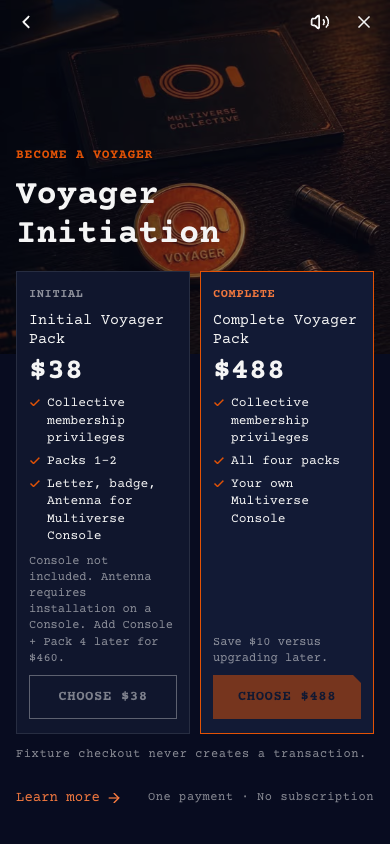
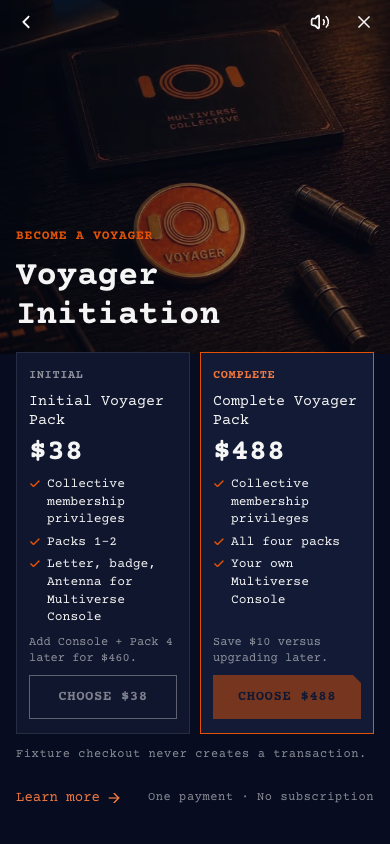
Shorten Pack 2 copy and briefing offer notes

Changed region(s): [[0.0308, 0.2156, 0.9846, 0.8009], [0.2462, 0.154, 0.4, 0.1848], [0.0308, 0.154, 0.1538, 0.1848]]

diff --git a/src/app/voyager-initiation/briefing/briefing-pages.tsx b/src/app/voyager-initiation/briefing/briefing-pages.tsx
@@ -483,7 +483,7 @@ export function FrontLinePage({ state, regions }: { state: PageState; regions: B
 /* 8 · Packs: the Console leads; tap any month to see that pack. */
 const PACKS = [
   { month: 'OCT', meta: 'PACK 1 · OCT 2026', title: 'Initial Voyager Pack', short: 'Initial Pack', image: `${MEDIA}/pack-1.jpg`, focus: '50% 75%', alt: 'A welcome letter and Voyager badge on a desk', description: 'Welcome letter and exclusive member badge. A physical invitation into the Collective.' },
-  { month: 'NOV', meta: 'PACK 2 · NOV 2026', title: ANTENNA.firstMention, short: ANTENNA.name, image: ANTENNA.image, alt: ANTENNA.imageAlt, description: ANTENNA.briefingDescription },
+  { month: 'NOV', meta: 'PACK 2 · NOV 2026', title: ANTENNA.firstMention, short: ANTENNA.name, image: ANTENNA.image, alt: ANTENNA.imageAlt, description: ANTENNA.packDescription },
   { month: 'DEC', meta: 'PACK 3 · DEC 2026', title: 'Multiverse Console', short: 'Console', image: `${MEDIA}/console-workshop.jpg`, alt: 'A Multiverse Console on a workshop bench, its screen showing a parallel world', description: 'Your own device for exploring and interacting with parallel worlds.' },
   { month: 'JAN', meta: 'PACK 4 · JAN 2027', title: 'A Fourth Delivery', short: 'Fourth delivery', image: `${MEDIA}/pack-4.jpg`, alt: 'A sealed envelope awaiting its reveal', description: 'A future shipment for this cohort. Contents to be announced.' },
 ]
@@ -501,7 +501,7 @@ export function PacksPage({ state, onPack }: { state: PageState; onPack: (index:
         <div className={`${s.packHero} ${selected === 1 ? s.antennaHero : ''}`}>
           <span key={pack.image} className={s.packImage}><SmartImage src={pack.image} alt={pack.alt} sizes="(min-width: 460px) 430px, 92vw" preload style={pack.focus ? { objectPosition: pack.focus } : undefined} /></span>
         </div>
-        <div className={s.packCaption} aria-live="polite"><span>{pack.meta}</span><b>{pack.title}</b><p>{pack.description}</p>{selected === 1 && <><p>{ANTENNA.requirement} {ANTENNA.initialExclusion}</p><p>{ANTENNA.imageCaption}</p></>}</div>
+        <div className={s.packCaption} aria-live="polite"><span>{pack.meta}</span><b>{pack.title}</b>{selected === 1 && <p><strong>{ANTENNA.packTagline}</strong></p>}<p>{pack.description}</p></div>
       </div>
       <div className={s.packStrip}>
         {PACKS.map((item, k) => <button key={item.month} type="button" className={s.packThumb} aria-pressed={selected === k} style={{ '--k': k } as CSSProperties}

diff --git a/src/app/voyager-initiation/initiation-view.tsx b/src/app/voyager-initiation/initiation-view.tsx
@@ -50,7 +50,7 @@ const paymentMessages = {
 
 const packs = [
   { title: 'Initial Voyager Pack', dispatch: 'Oct 2026', image: '/voyager-pack/pack-email.png', alt: 'A welcome letter and Voyager badge on a desk', description: 'Welcome letter and exclusive member badge. A physical invitation into the Collective.' },
-  { title: ANTENNA.firstMention, dispatch: 'Nov 2026', image: ANTENNA.image, alt: ANTENNA.imageAlt, description: ANTENNA.description },
+  { title: ANTENNA.firstMention, dispatch: 'Nov 2026', image: ANTENNA.image, alt: ANTENNA.imageAlt, description: ANTENNA.packDescription },
   { title: 'Multiverse Console', dispatch: 'Dec 2026', image: '/assets/voyager-initiation/console-multiview-portrait.png', alt: 'Multiverse Console in the Kyoto workshop: front, rear, side display and control dial views', featured: true, description: 'Your own device for exploring and interacting with parallel worlds.' },
   { title: 'A Fourth Delivery', dispatch: 'Jan 2027', image: '/assets/voyager-initiation/fourth-delivery.png', alt: 'A sealed envelope awaiting its reveal', description: 'A future shipment for this cohort. Contents to be announced.', planned: true },
 ]
@@ -253,11 +253,8 @@ export function InitiationView({ initialBundle = 'initial', snapshot, members = 
                 <PackHeading>{pack.title}</PackHeading>
                 {legacy && index < 2 && <p className={styles.packAccess}>Included in Initial Pack</p>}
                 {pack.featured && consoleClaim.claimed && <p className={styles.packAccess}>{consoleClaim.batch?.name ?? 'Batch details unavailable'}</p>}
+                {index === 1 && <p className={styles.antennaCopy}><strong>{ANTENNA.packTagline}</strong></p>}
                 <p className={index === 1 ? styles.antennaCopy : undefined}>{pack.description}</p>
-                {index === 1 && <>
-                  <p className={styles.antennaCopy}>{ANTENNA.requirement} {ANTENNA.initialExclusion}</p>
-                  <p className={styles.antennaCaption}>{ANTENNA.imageCaption}</p>
-                </>}
                 {shipment ? shipment.status !== 'planned' && <p className={styles.shipmentStatus}>{shipment.status}</p> : initiated ? <p className={styles.shipmentStatus}>Progress unavailable</p> : null}
                 {shipment?.trackingUrl && <a className={styles.textLink} href={shipment.trackingUrl} target="_blank" rel="noopener noreferrer">Track delivery <ArrowRight size={18} aria-hidden /></a>}
               </div>

diff --git a/src/app/dev/voyager-bundles/preview.tsx b/src/app/dev/voyager-bundles/preview.tsx
@@ -15,7 +15,7 @@ import styles from './preview.module.css'
 
 const packs = [
   { title: 'Initial Voyager Pack', month: 'Oct 2026', image: '/voyager-pack/pack-email.png', alt: 'Welcome letter and Voyager badge', description: 'Welcome letter and exclusive member badge. A physical invitation into the Collective.' },
-  { title: ANTENNA.firstMention, month: 'Nov 2026', image: ANTENNA.image, alt: ANTENNA.imageAlt, description: `${ANTENNA.description} ${ANTENNA.requirement} ${ANTENNA.initialExclusion} ${ANTENNA.imageCaption}` },
+  { title: ANTENNA.firstMention, month: 'Nov 2026', image: ANTENNA.image, alt: ANTENNA.imageAlt, description: ANTENNA.packDescription },
   { title: 'Multiverse Console', month: 'Dec 2026', image: '', alt: '', description: 'Your own device for exploring and interacting with parallel worlds.' },
   { title: 'A Fourth Delivery', month: 'Jan 2027', image: '/assets/voyager-initiation/fourth-delivery.png', alt: 'A sealed envelope awaiting its reveal', description: 'A future shipment for this cohort. Contents to be announced.' },
 ]
@@ -65,7 +65,7 @@ export function VoyagerBundlesPreview() {
             {pack.image && <div className={original.packImage}><SmartImage src={pack.image} alt={pack.alt} sizes="(min-width: 1100px) 260px, 42vw" preload={index === 0} /></div>}
             <div className={original.packCopy}>
               <p className={original.packageNumber}>Package {index + 1} · {pack.month}</p>
-              <h4>{pack.title}</h4><p>{pack.description}</p>
+              <h4>{pack.title}</h4>{index === 1 && <p><strong>{ANTENNA.packTagline}</strong></p>}<p>{pack.description}</p>
             </div>
             {index === 2 && <ConsoleCarousel suspended={confirmation} />}
           </li>)}

diff --git a/src/lib/initiation-briefing.ts b/src/lib/initiation-briefing.ts
@@ -99,7 +99,7 @@ export function briefingOffers(status: InitiationStatus): BriefingOffer[] {
   const saving = dollars('initial') + dollars('legacy_upgrade') - dollars('standard')
   return [{
     id: 'initial', label: 'INITIAL', title: INITIATION_PRICES.initial.name, price: dollars('initial'),
-    points: [membership, 'Packs 1–2', `Letter, badge, ${ANTENNA.firstMention}`], note: `Console not included. Antenna requires installation on a Console. Add Console + Pack 4 later for $${dollars('legacy_upgrade')}.`, recommended: false,
+    points: [membership, 'Packs 1–2', `Letter, badge, ${ANTENNA.firstMention}`], note: `Add Console + Pack 4 later for $${dollars('legacy_upgrade')}.`, recommended: false,
   }, {
     id: 'standard', label: 'COMPLETE', title: INITIATION_PRICES.standard.name, price: dollars('standard'),
     points: [membership, 'All four packs', 'Your own Multiverse Console'], note: saving > 0 ? `Save $${saving} versus upgrading later.` : 'Pay once. No recurring fee.', recommended: true,

diff --git a/src/lib/initiation-briefing.test.ts b/src/lib/initiation-briefing.test.ts
@@ -40,7 +40,7 @@ describe('Voyager briefing content', () => {
   it('offers the same choices and prices as the checkout panel', () => {
     expect(briefingOffers('unpaid').map(o => [o.id, o.price, o.recommended])).toEqual([['initial', 38], ['standard', 488]].map(([id, price]) => [id, price, id === 'standard']))
     expect(briefingOffers('guest').map(o => o.id)).toEqual(['initial', 'standard'])
-    expect(briefingOffers('unpaid')[0].note).toBe('Console not included. Antenna requires installation on a Console. Add Console + Pack 4 later for $460.')
+    expect(briefingOffers('unpaid')[0].note).toBe('Add Console + Pack 4 later for $460.')
     expect(briefingOffers('unpaid')[1].note).toBe('Save $10 versus upgrading later.')
     for (const offer of briefingOffers('unpaid')) expect(offer.points[0]).toBe('Collective membership privileges')
     const upgrade = briefingOffers('legacy_pack')

diff --git a/src/lib/antenna-copy.ts b/src/lib/antenna-copy.ts
@@ -2,6 +2,8 @@
 export const ANTENNA = {
   name: 'Antenna',
   firstMention: 'Antenna for Multiverse Console',
+  packTagline: 'A token of the Collective. A connection to the unknown.',
+  packDescription: 'Installed on your Console, it receives a particular category of signals from parallel worlds. We are still learning what those signals contain. Explore them together.',
   tagline: 'An emblem of the Collective. A connection to the unknown.',
   description: 'An emblem of the Collective. A connection to the unknown. A decorative collectible for your Console, it receives a particular category of parallel-world signals when installed on top. We are still learning what those signals contain. Explore them together.',
   briefingDescription: 'An emblem of the Collective, receiving a particular category of parallel-world signals. Explore the unknown together.',

diff --git a/src/app/voyager-initiation/initiation.module.css b/src/app/voyager-initiation/initiation.module.css
@@ -39,7 +39,6 @@
 .packCopy :is(h3, h4) { font-size: var(--fs-body); line-height: 1.3; font-weight: 700; margin: 0 0 8px; overflow-wrap: anywhere; }
 .packCopy > p:last-child { margin: 0; font-size: var(--fs-body); line-height: 1.55; color: var(--color-star-dim); }
 .packCopy .antennaCopy { margin: 0 0 var(--s-3); font-size: var(--fs-body); line-height: 1.55; color: var(--color-star-dim); }
-.packCopy .antennaCaption { margin: 0; font-size: var(--fs-caption); line-height: 1.5; color: var(--color-star-dim); }
 .benefit { display: grid; gap: 20px; }
 .benefitImage { position: relative; aspect-ratio: 3 / 2; overflow: hidden; }
 .benefitImage img { object-fit: cover; }

diff --git a/docs/design/antenna-20261022/verification.zh.md b/docs/design/antenna-20261022/verification.zh.md
@@ -15,7 +15,7 @@ Voyager 购买页 → Pack 2、套餐选择与 FAQ → briefing Pack 2 和报价
 - 首先检查 390×844，再检查 1440×1000；字体 Courier Prime，正文 16px，补充说明沿用 12px 下限，未新增品牌颜色或装饰效果。
 - 手机主页面的 Antenna 行使用单列大图＋正文，≥768px 继续沿用既有双列。桌面仍为左图右文。
 - briefing 新图使用 16:9 框，保留三件物体完整轮廓；精简说明后，四个包裹缩略图及其名称在 390×844 下均位于 NEXT 上方。更长内容仍可在现有页面内滚动。
-- 主购买卡 $38、Complete $488 与升级 $460 提示保留；主机排除与安装说明在套餐卡、Pack 2 和 briefing 均可读。
+- 主购买卡 $38、Complete $488 与升级 $460 提示保留。用户随后确认精简：购买页及 briefing 的 Pack 2 仅保留加粗的 “A token of the Collective. A connection to the unknown.” 与指定接收／共同探索正文，不追加适用性和设计示意段落。briefing 套餐页仅保留后续升级价格；安装／主机边界继续保留在主购买卡、FAQ 与交付说明。
 - 新图片加载成功，替代方块／圆筒／矿石旧图；没有整页或 briefing 横向溢出。最终浏览器运行没有 pageerror。旧演示图未删除或改标。
 - 只验证展示内容、包裹切换和 briefing 导航；付款、发货和实际天线接收能力不在本次验收范围。
 

diff --git a/docs/product/antenna-media-20261022.md b/docs/product/antenna-media-20261022.md
@@ -36,4 +36,4 @@
 
 已检查整图与原尺寸帽部、边缘和桌面接触关系：三种表面处理、同心环纹与低伞帽轮廓可辨；无 Console、文字、发光、屏幕、线缆或新增操作部件。黄铜款斜靠、米白和深蓝款平置，接触阴影与光源方向一致。表面纹理与自然木纹可读，未见明显融合或重复贴图。柄及接口大部分被遮挡，不能由本图判断工程结构。无需审核机身三屏，因为最终画面不含主机。
 
-状态：可用于附有设计示意说明的当前页面；不作为实物照片、量产结构或装箱清单证明。图注 **Design studies; final appearance and quantity to be confirmed.** 不承诺一次交付三支或提供颜色选择。
+状态：用于当前页面的设计示意；不作为实物照片、量产结构或装箱清单证明。用户随后要求 Pack 2 简介只保留指定两段，因此该处不追加图注；设计示意与数量待确认的说明继续保留于 FAQ 和交付说明。图片不承诺一次交付三支或提供颜色选择。

diff --git a/docs/product/antenna.zh.md b/docs/product/antenna.zh.md
@@ -12,6 +12,18 @@
 
 ## 现行英文
 
+### Pack 2 简介（用户随后确认的精简版）
+
+购买页与 briefing 的 Pack 2 仅保留以下两段，第一段加粗：
+
+**A token of the Collective. A connection to the unknown.**
+
+Installed on your Console, it receives a particular category of signals from parallel worlds. We are still learning what those signals contain. Explore them together.
+
+此处不再追加安装要求、不含主机或设计示意段落。briefing 套餐页仅保留后续 Console + Pack 4 升级价格，不追加适用性说明。主购买卡、FAQ 和交付说明继续保留已确认的安装／套餐边界；FAQ 与交付说明原文不因本次精简改动。
+
+### FAQ 等详细说明（保持已确认内容）
+
 **Antenna for Multiverse Console**
 
 > An emblem of the Collective. A connection to the unknown. A decorative collectible for your Console, it receives a particular category of parallel-world signals when installed on top. We are still learning what those signals contain. Explore them together.
